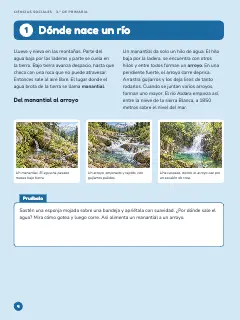
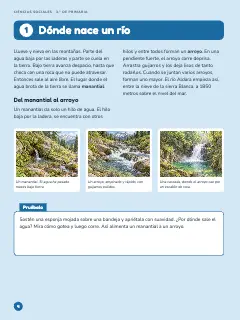
chore(cookbook): capture Nº 156 on postext 1.46.0, headings open their column with their text (#1019)

Changed region(s): [[0.0583, 0.3125, 0.9333, 0.7188], [0.4958, 0.1562, 0.9042, 0.3438], [0.0583, 0.75, 0.9333, 0.8125]]

diff --git a/cookbook/children-textbook-pages/script.js b/cookbook/children-textbook-pages/script.js
@@ -1,7 +1,7 @@
 // ═══ Postext Cookbook · Nº 156 · A children's textbook unit in three languages ═══
 // https://postext.dev/en/cookbook/children-textbook-pages
 // Code: MIT · Text: original (CC BY 4.0) · Pictures: generated with diffusion models
-// Fonts: Nunito, Fredoka (SIL OFL 1.1) · Needs postext ≥ 1.43.0
+// Fonts: Nunito, Fredoka (SIL OFL 1.1) · Needs postext ≥ 1.46.0
 import {
   buildDocumentWithFonts, renderPageToCanvas, registerResourceImage,
 } from 'https://esm.sh/postext';
